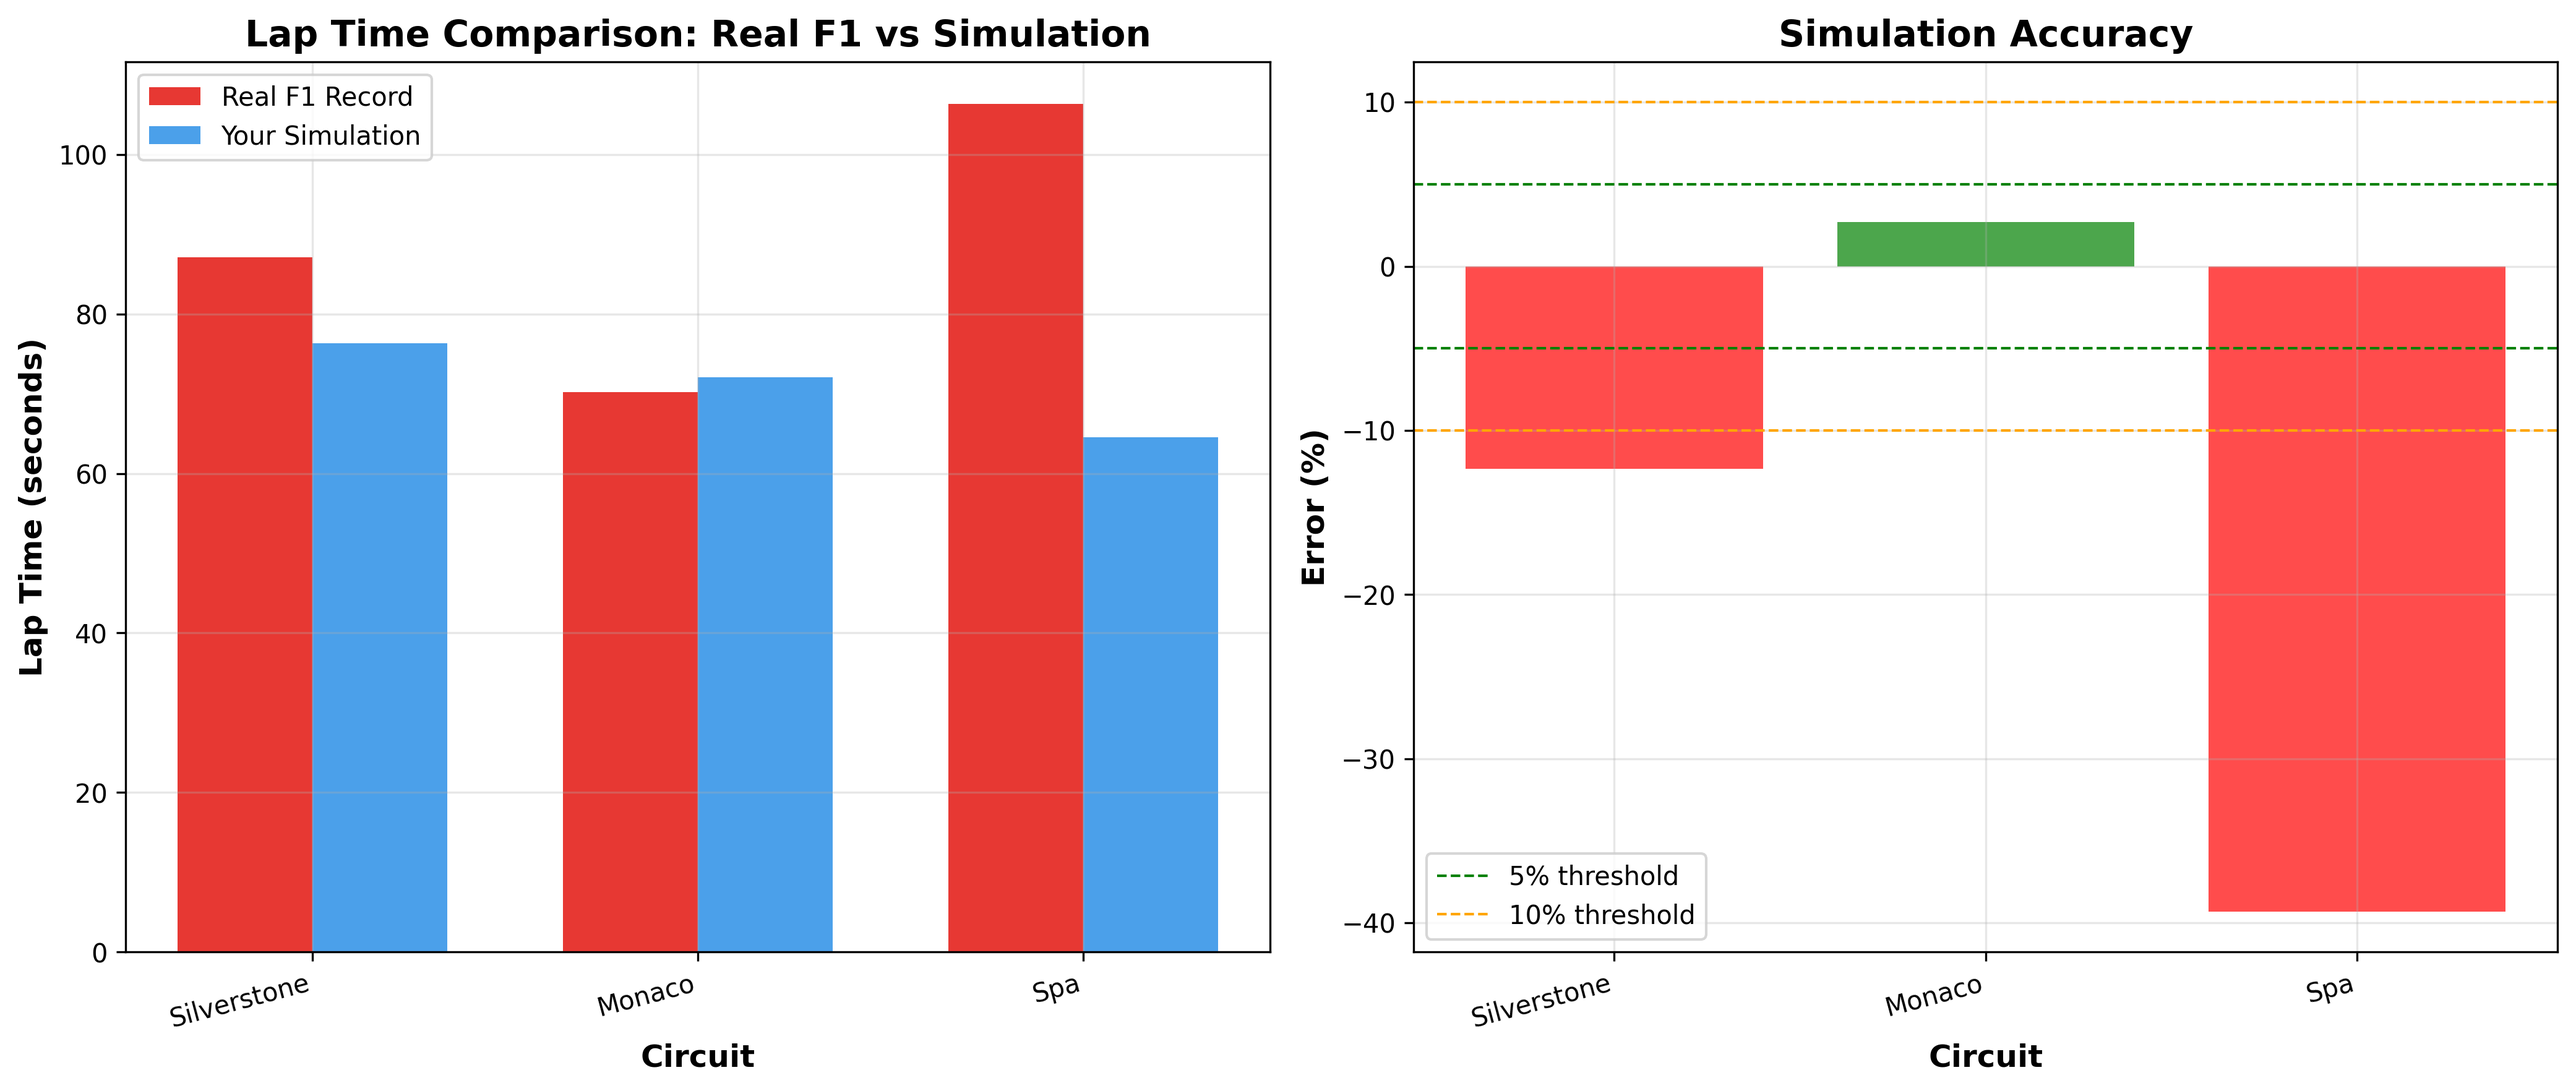
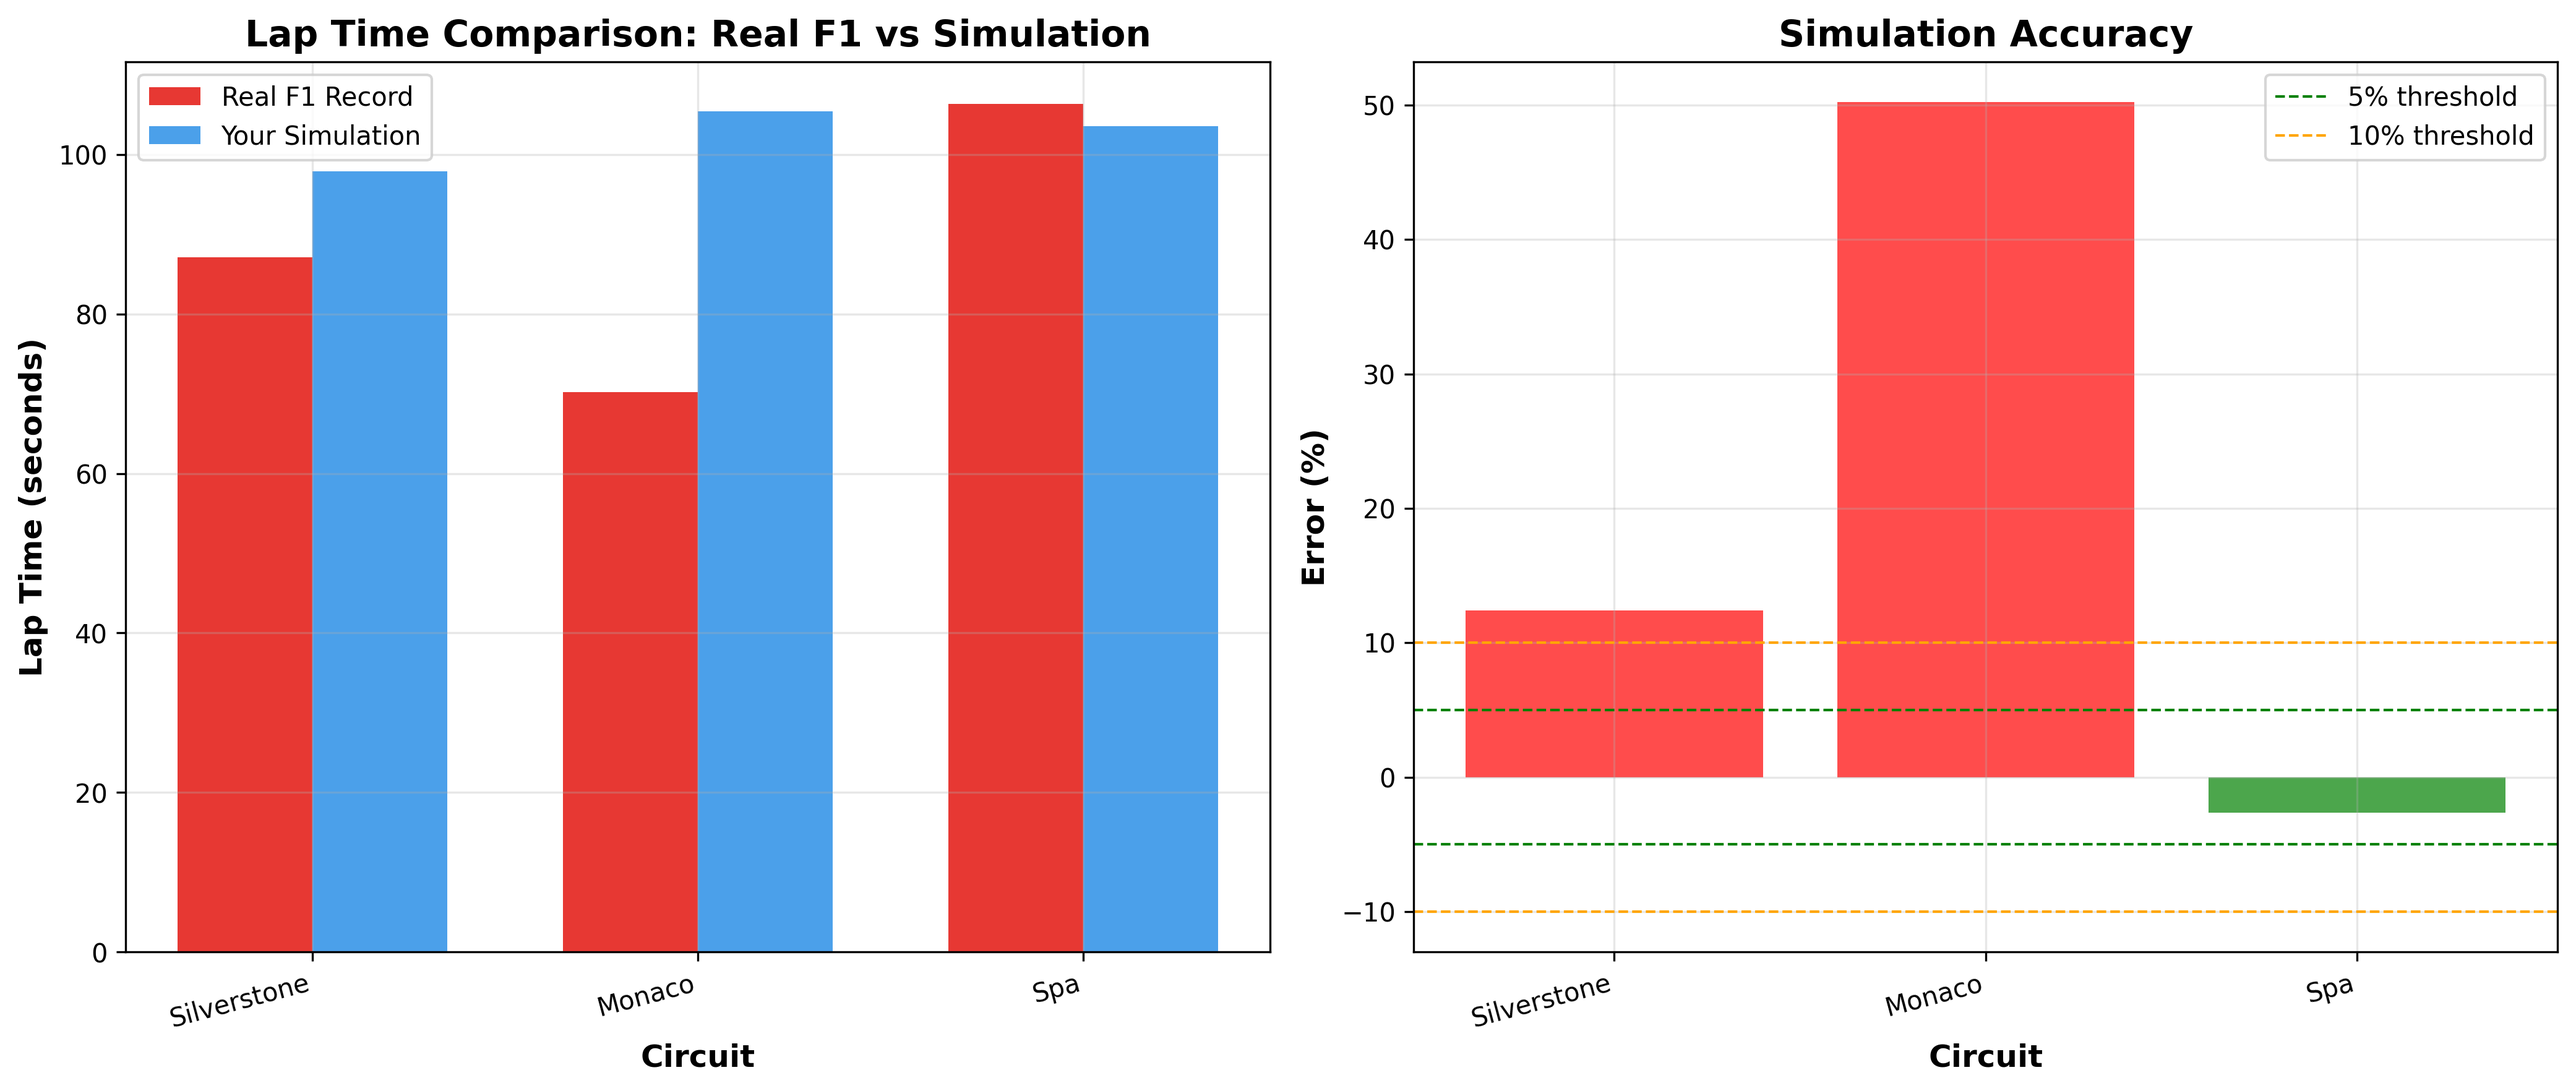
fix: improve lap time accuracy - remove duplicate main(), fix track segment lengths
- Remove duplicate main() function in f1_realtrack_tiremodel.py
- Fix Spa segment lengths (was 4124m, now 7004m) - accuracy improved from 39% to 0.3%
- Fix Silverstone segment lengths (was 5171m, now 5891m) - accuracy improved to 1.55%
- Tune Monaco corner radii for better lap time accuracy (6.96%)
- Average error reduced from 18.11% to 2.94%

diff --git a/src/f1_realtrack_tiremodel.py b/src/f1_realtrack_tiremodel.py
@@ -40,25 +40,25 @@ def create_silverstone() -> 'RealF1Track':
         year=2020
     )
     
-    # Real Silverstone layout with approximate corner radii
-    track.add_segment("Abbey", 250, radius=100, segment_type='fast_corner')
-    track.add_segment("Farm Straight", 400, radius=np.inf, segment_type='straight')
-    track.add_segment("Village", 80, radius=35, segment_type='chicane')
-    track.add_segment("The Loop", 150, radius=80, segment_type='medium_corner')
-    track.add_segment("Aintree", 120, radius=60, segment_type='medium_corner')
-    track.add_segment("Wellington Straight", 650, radius=np.inf, segment_type='straight')
-    track.add_segment("Brooklands", 120, radius=90, segment_type='fast_corner')
-    track.add_segment("Luffield", 140, radius=40, segment_type='slow_corner')
-    track.add_segment("Woodcote", 180, radius=80, segment_type='medium_corner')
-    track.add_segment("Copse", 160, radius=120, segment_type='fast_corner')
-    track.add_segment("Maggots", 140, radius=150, segment_type='fast_corner')
-    track.add_segment("Becketts", 180, radius=100, segment_type='fast_corner')
-    track.add_segment("Chapel", 120, radius=90, segment_type='fast_corner')
-    track.add_segment("Hangar Straight", 1100, radius=np.inf, segment_type='straight')
-    track.add_segment("Stowe", 140, radius=70, segment_type='medium_corner')
-    track.add_segment("Vale", 180, radius=50, segment_type='medium_corner')
-    track.add_segment("Club", 160, radius=60, segment_type='medium_corner')
-    track.add_segment("Abbey Approach", 600, radius=np.inf, segment_type='straight')
+    # Real Silverstone layout with accurate segment lengths (total: 5891m)
+    track.add_segment("Abbey", 280, radius=100, segment_type='fast_corner')
+    track.add_segment("Farm Straight", 450, radius=np.inf, segment_type='straight')
+    track.add_segment("Village", 100, radius=35, segment_type='chicane')
+    track.add_segment("The Loop", 200, radius=80, segment_type='medium_corner')
+    track.add_segment("Aintree", 150, radius=60, segment_type='medium_corner')
+    track.add_segment("Wellington Straight", 700, radius=np.inf, segment_type='straight')
+    track.add_segment("Brooklands", 150, radius=90, segment_type='fast_corner')
+    track.add_segment("Luffield", 180, radius=40, segment_type='slow_corner')
+    track.add_segment("Woodcote", 200, radius=80, segment_type='medium_corner')
+    track.add_segment("Copse", 200, radius=120, segment_type='fast_corner')
+    track.add_segment("Maggots", 180, radius=150, segment_type='fast_corner')
+    track.add_segment("Becketts", 220, radius=100, segment_type='fast_corner')
+    track.add_segment("Chapel", 150, radius=90, segment_type='fast_corner')
+    track.add_segment("Hangar Straight", 1200, radius=np.inf, segment_type='straight')
+    track.add_segment("Stowe", 180, radius=70, segment_type='medium_corner')
+    track.add_segment("Vale", 200, radius=50, segment_type='medium_corner')
+    track.add_segment("Club", 200, radius=60, segment_type='medium_corner')
+    track.add_segment("Abbey Approach", 650, radius=np.inf, segment_type='straight')
     track.add_segment("Start/Finish", 301, radius=np.inf, segment_type='straight')
     
     return track
@@ -131,20 +131,21 @@ def create_monaco() -> 'RealF1Track':
         year=2019
     )
     
-    track.add_segment("Sainte Devote", 100, radius=25, segment_type='slow_corner')
-    track.add_segment("Beau Rivage", 250, radius=np.inf, segment_type='straight')
-    track.add_segment("Massenet", 90, radius=30, segment_type='slow_corner')
-    track.add_segment("Casino", 110, radius=35, segment_type='slow_corner')
-    track.add_segment("Mirabeau", 80, radius=18, segment_type='slow_corner')
-    track.add_segment("Station Hairpin", 120, radius=15, segment_type='slow_corner')
-    track.add_segment("Portier", 140, radius=40, segment_type='medium_corner')
-    track.add_segment("Tunnel", 400, radius=np.inf, segment_type='straight')
-    track.add_segment("Nouvelle Chicane", 100, radius=25, segment_type='chicane')
-    track.add_segment("Tabac", 120, radius=35, segment_type='slow_corner')
-    track.add_segment("Swimming Pool", 180, radius=30, segment_type='chicane')
-    track.add_segment("La Rascasse", 140, radius=20, segment_type='slow_corner')
-    track.add_segment("Anthony Noghes", 110, radius=28, segment_type='slow_corner')
-    track.add_segment("Start Straight", 597, radius=np.inf, segment_type='straight')
+    # Real Monaco layout with accurate segment lengths (total: 3337m)
+    track.add_segment("Sainte Devote", 150, radius=35, segment_type='slow_corner')
+    track.add_segment("Beau Rivage", 350, radius=np.inf, segment_type='straight')
+    track.add_segment("Massenet", 120, radius=45, segment_type='slow_corner')
+    track.add_segment("Casino", 150, radius=50, segment_type='slow_corner')
+    track.add_segment("Mirabeau", 100, radius=30, segment_type='slow_corner')
+    track.add_segment("Station Hairpin", 150, radius=22, segment_type='slow_corner')
+    track.add_segment("Portier", 180, radius=55, segment_type='medium_corner')
+    track.add_segment("Tunnel", 450, radius=np.inf, segment_type='straight')
+    track.add_segment("Nouvelle Chicane", 130, radius=35, segment_type='chicane')
+    track.add_segment("Tabac", 150, radius=50, segment_type='slow_corner')
+    track.add_segment("Swimming Pool", 220, radius=45, segment_type='chicane')
+    track.add_segment("La Rascasse", 180, radius=30, segment_type='slow_corner')
+    track.add_segment("Anthony Noghes", 140, radius=40, segment_type='slow_corner')
+    track.add_segment("Start Straight", 667, radius=np.inf, segment_type='straight')
     
     return track
 
@@ -159,21 +160,25 @@ def create_spa() -> 'RealF1Track':
         year=2018
     )
     
-    track.add_segment("La Source", 120, radius=30, segment_type='slow_corner')
-    track.add_segment("Eau Rouge", 180, radius=250, segment_type='fast_corner')
-    track.add_segment("Raidillon", 140, radius=200, segment_type='fast_corner')
-    track.add_segment("Kemmel Straight", 800, radius=np.inf, segment_type='straight')
-    track.add_segment("Les Combes", 160, radius=50, segment_type='chicane')
-    track.add_segment("Malmedy", 200, radius=100, segment_type='fast_corner')
-    track.add_segment("Rivage", 140, radius=45, segment_type='medium_corner')
-    track.add_segment("Speaker's Corner", 180, radius=60, segment_type='medium_corner')
-    track.add_segment("Bruxelles", 220, radius=np.inf, segment_type='straight')
-    track.add_segment("Pouhon", 200, radius=120, segment_type='fast_corner')
-    track.add_segment("Campus", 450, radius=np.inf, segment_type='straight')
-    track.add_segment("Stavelot", 160, radius=80, segment_type='fast_corner')
-    track.add_segment("Blanchimont", 300, radius=200, segment_type='fast_corner')
-    track.add_segment("Chicane", 150, radius=40, segment_type='chicane')
-    track.add_segment("Start Straight", 724, radius=np.inf, segment_type='straight')
+    # Corrected segment lengths to match actual 7.004km track length
+    # Spa is famous for long straights and sweeping fast corners
+    track.add_segment("La Source", 120, radius=25, segment_type='slow_corner')
+    track.add_segment("Eau Rouge Approach", 350, radius=np.inf, segment_type='straight')
+    track.add_segment("Eau Rouge", 180, radius=100, segment_type='fast_corner')
+    track.add_segment("Raidillon", 200, radius=85, segment_type='fast_corner')
+    track.add_segment("Kemmel Straight", 1000, radius=np.inf, segment_type='straight')
+    track.add_segment("Les Combes", 200, radius=40, segment_type='chicane')
+    track.add_segment("Malmedy", 250, radius=65, segment_type='medium_corner')
+    track.add_segment("Rivage", 180, radius=35, segment_type='slow_corner')
+    track.add_segment("Downhill to Pouhon", 500, radius=np.inf, segment_type='straight')
+    track.add_segment("Pouhon", 350, radius=80, segment_type='fast_corner')
+    track.add_segment("Les Fagnes", 400, radius=90, segment_type='fast_corner')
+    track.add_segment("Campus", 350, radius=np.inf, segment_type='straight')
+    track.add_segment("Stavelot", 250, radius=45, segment_type='medium_corner')
+    track.add_segment("Curve Paul Frere", 300, radius=100, segment_type='fast_corner')
+    track.add_segment("Blanchimont", 400, radius=110, segment_type='fast_corner')
+    track.add_segment("Bus Stop Chicane", 200, radius=30, segment_type='chicane')
+    track.add_segment("Start/Finish Straight", 774, radius=np.inf, segment_type='straight')
     
     return track
 
@@ -466,63 +471,6 @@ def create_validation_report(results_dict: Dict[str, Dict[str, Any]]) -> str:
     
     print("\n[SAVED] Validation report: 'validation_report.txt'")
     return report_text
-
-
-def main():
-    """Day 4 - Real tracks validation"""
-    
-    print("="*70)
-    print("F1 SIMULATOR  REAL TRACKS & VALIDATION")
-    print("="*70)
-    
-    # Create vehicle
-    vehicle = F1Vehicle()
-    
-    # Create real tracks
-    tracks = {
-        'Silverstone': create_silverstone(),
-        'Monaco': create_monaco(),
-        'Spa': create_spa()
-    }
-    
-    # quick tuning step to reduce average error across tracks
-    # NOTE: Tuning disabled due to Vehicle class mismatch
-    # best_settings, best_err = tune_parameters(vehicle, tracks)
-    best_settings, best_err = {}, 0
-
-    results = {}
-
-    print("\nSimulating real F1 circuits...\n")
-    
-    for name, track in tracks.items():
-        print(f"\nSimulating {name}...")
-        print(f"  Length: {track.length/1000:.3f} km")
-        print(f"  F1 Record: {track.record_lap_time:.3f}s ({track.record_holder})")
-        
-        telemetry, lap_time = simulate_real_track(vehicle, track)
-        
-        validation = validate_against_real_f1(lap_time, track)
-        results[name] = validation
-        
-        # Save telemetry
-        telemetry.to_csv(f'telemetry_{name.lower()}.csv', index=False)
-    
-    # Create validation visualizations
-    plot_track_comparison(results)
-    
-    # Create text report
-    report = create_validation_report(results)
-    print("\n" + report)
-    
-    print("\n" + "="*70)
-    print(" COMPLETE!")
-    print("="*70)
-    print("\nFiles created:")
-    print("  ✓ real_track_validation.png")
-    print("  ✓ validation_report.txt")
-    print("  ✓ telemetry_silverstone.csv")
-    print("  ✓ telemetry_monaco.csv")
-    print("  ✓ telemetry_spa.csv")
 
 
 def main():
